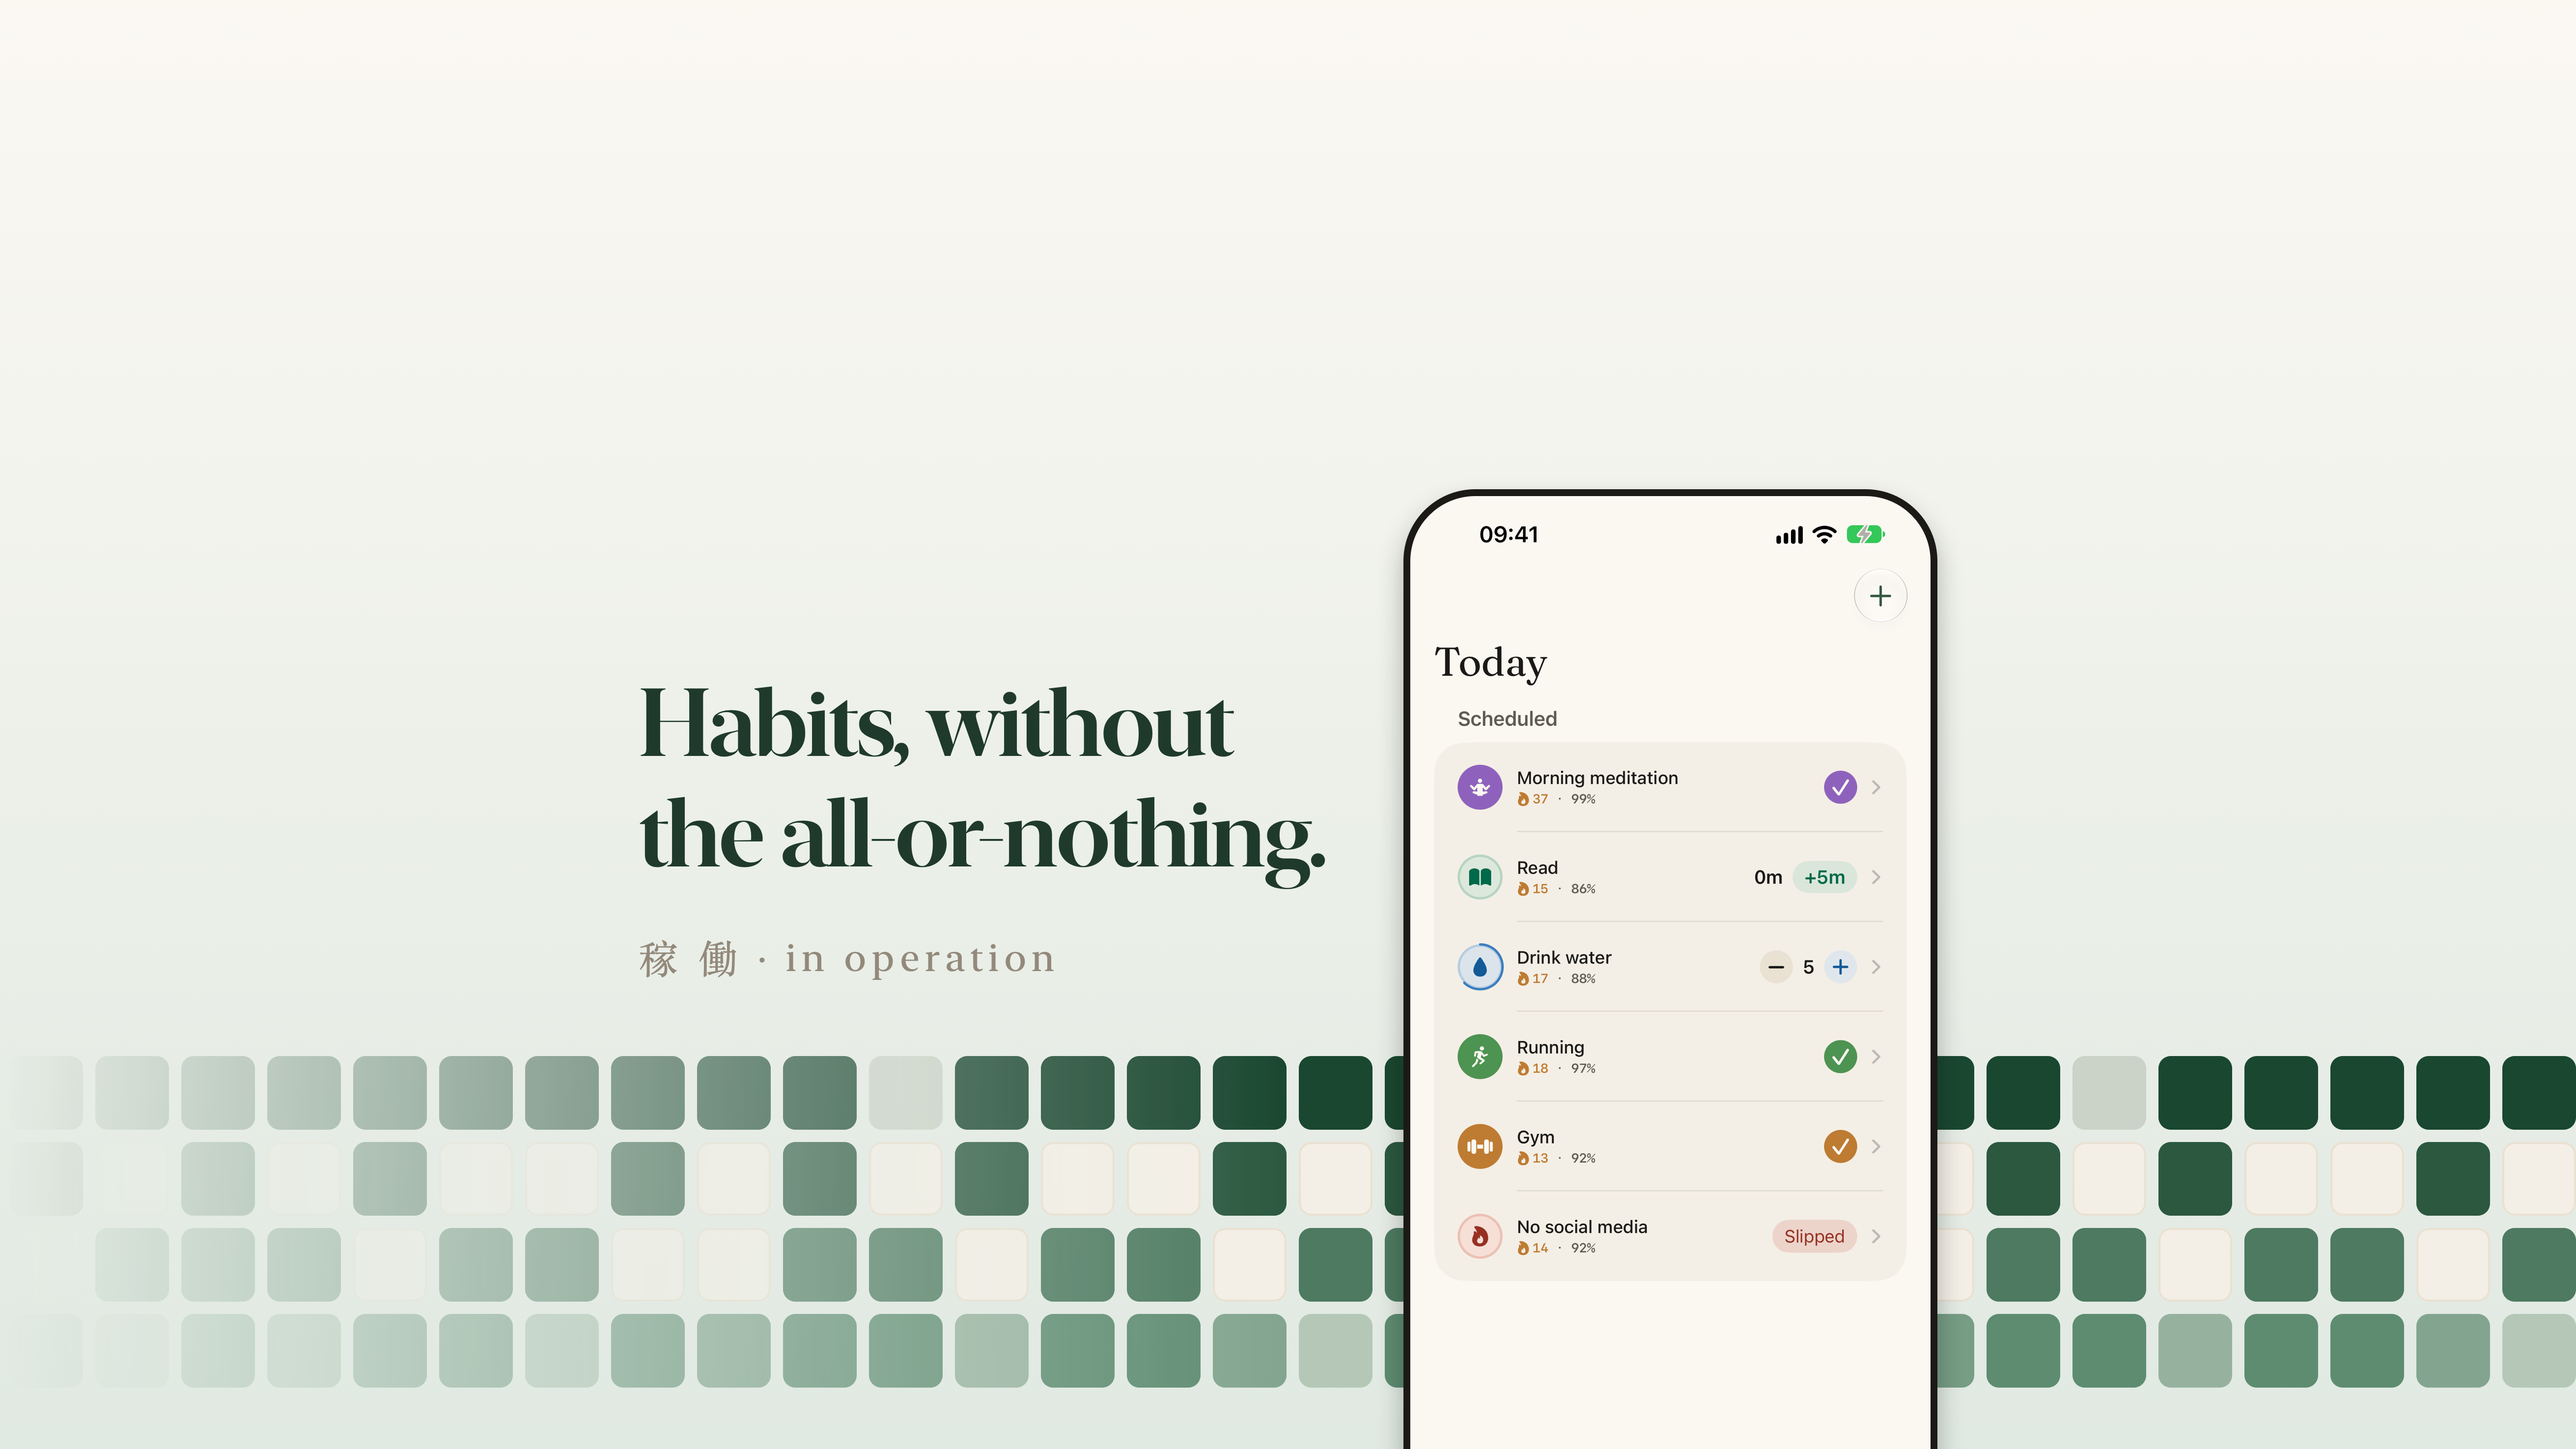
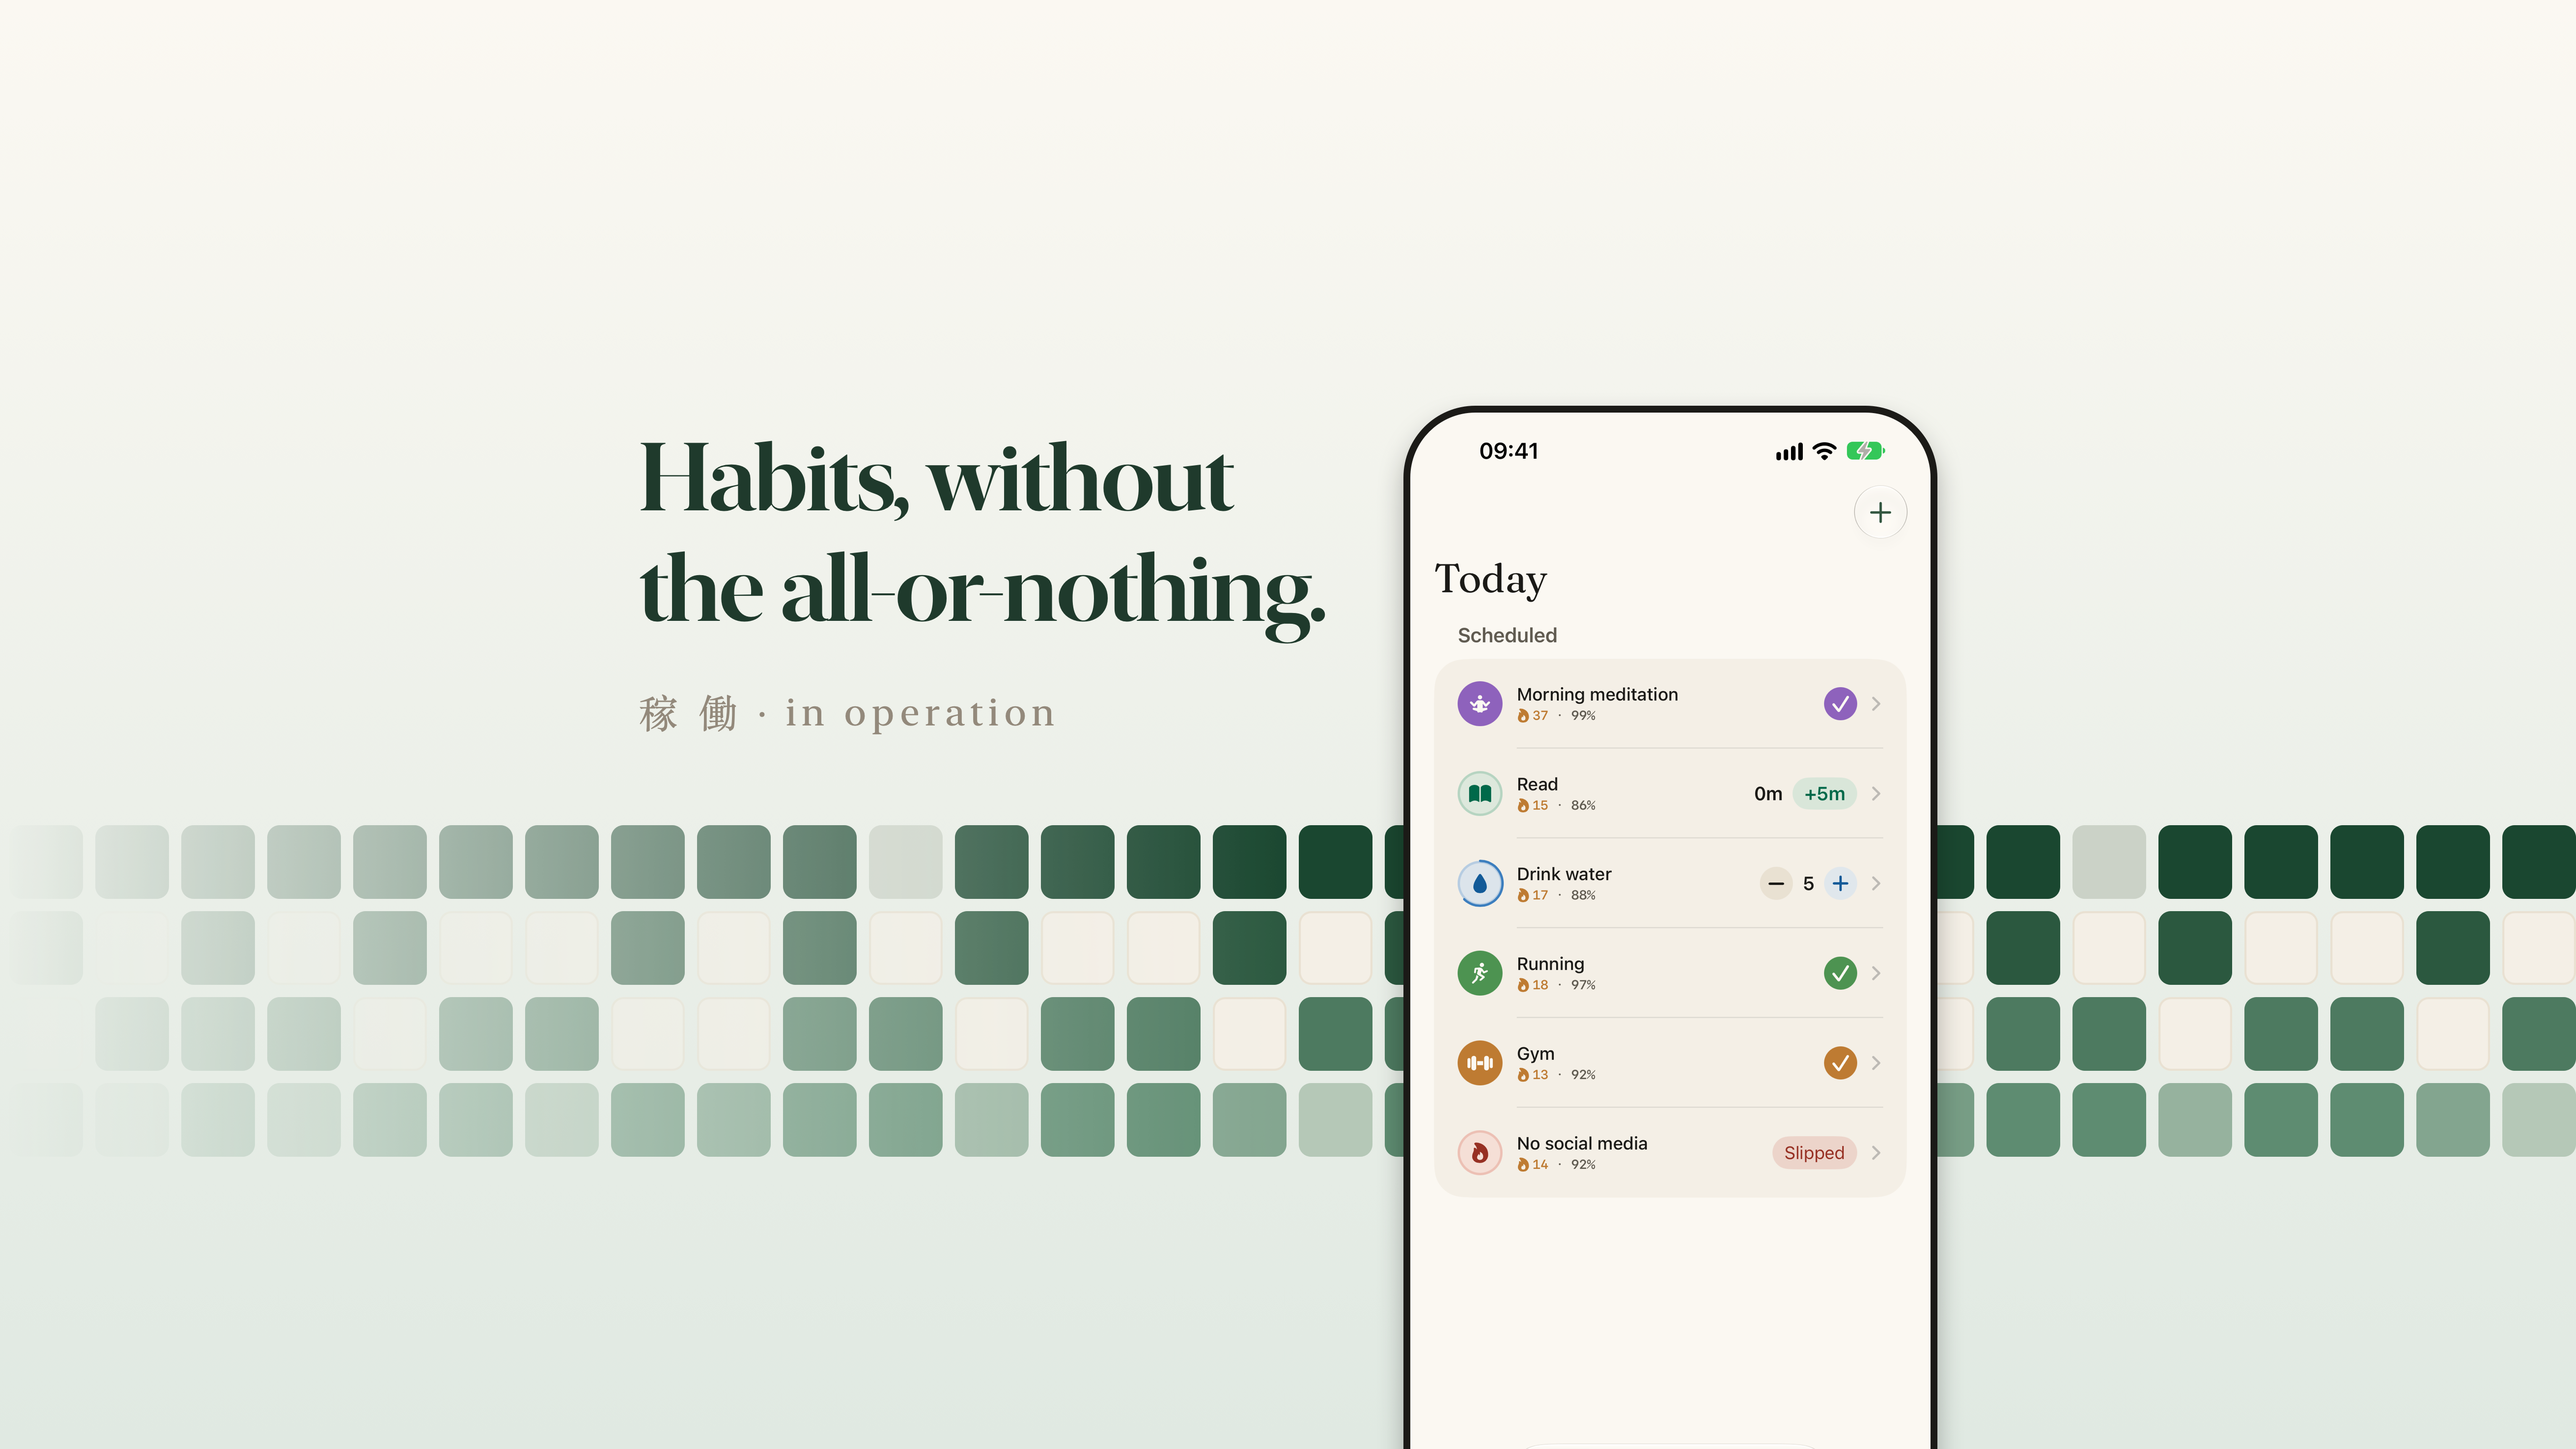
fix(listing): anchor the creative to the top of the iPhone header's window
A second Preview-tool shot, measured against where the phone lands, shows
the iPhone header window is anchored to the top of the canvas (y 0-1890),
not centred: the wordmark and grid fell below its bottom edge. The headline
and phone now start just below the back/share buttons and the grid's first
row closes the window.

Refs #131

diff --git a/Scripts/frame-screenshots.swift b/Scripts/frame-screenshots.swift
@@ -447,9 +447,10 @@ func assemble(
 //
 // - **Search results** show the whole 16:9, about 615pt wide. Whatever sits in the middle
 //   alone looks small there, so the ground has to carry something edge to edge.
-// - **The product page header**, on an iPhone, shows only a centred 3:2 window, ~54% of the
-//   width by ~64% of the height (`header`), and its top fifth sits under the status bar and the
-//   Dynamic Island, with the back and share buttons over its top corners (`headerTop`).
+// - **The product page header**, on an iPhone, shows only a 3:2 window, ~54% of the width by
+//   ~64% of the height (`header`), centred across but anchored to the *top* — the bottom third
+//   of the canvas never shows there. Its top sits under the status bar and the Dynamic Island,
+//   with the back and share buttons over its top corners (`headerTop`, `headerButtonsBottom`).
 //
 // So everything that must be read — the headline, the phone's screen — lives inside `header`
 // and below `headerTop`, and the grid runs the full width behind it for the search placement.
@@ -457,15 +458,15 @@ func assemble(
 enum Creative {
     /// App Store Connect's universal creative canvas: 16:9, and refused at any other size.
     static let canvas = NSSize(width: 5244, height: 2950)
-    /// The iPhone product page header's window onto the canvas, measured from the Preview tool:
-    /// x 1197–4047, y 531–2419 counting from the top.
-    static let header = (minX: CGFloat(1197), maxX: CGFloat(4047), top: CGFloat(531), bottom: CGFloat(2419))
-    /// Where the header stops being under the status bar (a band across its whole width)…
-    static let headerTop: CGFloat = 950
+    /// The iPhone product page header's window onto the canvas, measured from the Preview tool
+    /// against where known elements land: x 1212–4057, y 0–1890 counting from the top. A first
+    /// measurement assumed it was centred vertically, and put the wordmark below its bottom.
+    static let header = (minX: CGFloat(1212), maxX: CGFloat(4057), top: CGFloat(0), bottom: CGFloat(1890))
+    /// Where the header stops being under the status bar's fade (across its whole width)…
+    static let headerTop: CGFloat = 400
     /// …and under its back and share buttons, two circles over its top corners that reach
-    /// further down: x 1311–1653 and 3591–3933. Text starts below this; the phone's own status
-    /// bar row may sit under the share button, which is where it sits on the Home Screen too.
-    static let headerButtonsBottom: CGFloat = 1305
+    /// further down: x 1317–1672 and 3597–3953. The headline and the phone both start below.
+    static let headerButtonsBottom: CGFloat = 800
 
     /// The capture the device shows — read out of each locale's captures, so the French
     /// creative shows the French app.
@@ -481,13 +482,13 @@ enum Creative {
     /// and runs off the bottom edge, which is what the header would do to it anyway, and done
     /// deliberately it reads as a phone held up to the frame rather than one that didn't fit.
     static let screenHeight: CGFloat = 2300
-    static let screenTop: CGFloat = 1010
+    static let screenTop: CGFloat = headerButtonsBottom + 40
     /// The screen's right edge, inside the header window's by about a bezel and a shadow.
     static let screenRight: CGFloat = 3930
 
     /// The headline's left edge, inside the header window's, and its top, under the back button.
     static let headlineLeft: CGFloat = 1300
-    static let headlineTop: CGFloat = headerButtonsBottom + 55
+    static let headlineTop: CGFloat = headerButtonsBottom + 60
     static let headlineSize: CGFloat = 230
     /// Between the end of the headline's longest line and the phone.
     static let gap: CGFloat = 180
@@ -500,7 +501,8 @@ enum Creative {
 
     /// The Overview grid's band, the full width of the canvas: its top, and its cell in pixels.
     /// Big enough to read as habit days in a 615pt search result, where the whole frame shows.
-    static let matrixTop: CGFloat = 2150
+    /// High enough that its first row closes the bottom of the iPhone header's window.
+    static let matrixTop: CGFloat = 1680
     static let matrixCell: CGFloat = 150
 
     // No icon and no name: both placements already draw the app's icon and name right beside

diff --git a/docs/app-store/README.md b/docs/app-store/README.md
@@ -90,10 +90,11 @@ It is the same ground and the same Fraunces as the screenshots, laid out sideway
 **The crops, as measured.** Apple publishes no numbers, and the first cut's guess (a centred 60% × 75% band) was wrong for both placements. App Store Connect's **Preview** tool showed:
 
 - **Search results:** the whole 16:9, about 615pt wide. Anything confined to the middle reads small there, which is why the grid runs edge to edge.
-- **The iPhone product page header:** a centred 3:2 window of only ~54% × 64% of the canvas (x 1197–4047, y 531–2419, from the top).
-  - The status bar and Dynamic Island cover its top fifth (to y ≈ 950).
-  - The back and share buttons cover its top corners further down (to y ≈ 1305, at x 1311–1653 and 3591–3933).
-  - So the headline starts below the buttons, inside the window's left edge, and the phone's screen stays inside its right edge.
+- **The iPhone product page header:** a 3:2 window of only ~54% × 64% of the canvas, centred across but **anchored to the top**: x 1212–4057, y 0–1890 (counting from the top). The bottom third of the canvas never shows there.
+  - The status bar's fade covers its top (to y ≈ 400).
+  - The back and share buttons cover its top corners (to y ≈ 800, at x 1317–1672 and 3597–3953).
+  - So the headline and the phone start just below the buttons, inside the window's edges, and the grid's first row closes the window's bottom.
+  - A first measurement assumed the window was centred vertically, and put the wordmark and grid below its bottom edge. Measure against where known elements land, not against the frame.
 
 The layout constants in `Creative` are these numbers. Re-check in the Preview tool after any layout change, on iPhone and iPad.
 
